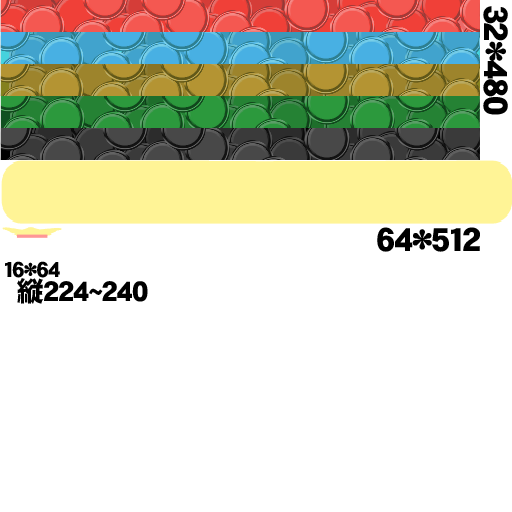
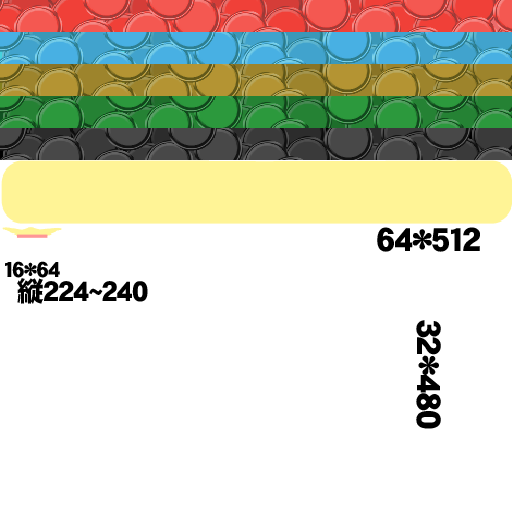
４人個別カメラ、４人個人画面、コインゲージの修正

Changed region(s): [[0.1562, 0.0, 1.0, 0.3125], [0.0, 0.0, 0.1562, 0.3125], [0.8125, 0.625, 0.875, 0.8438]]

diff --git a/source/Camera.cpp b/source/Camera.cpp
@@ -222,7 +222,6 @@
 	{
 		Slerp( target, 0.1f );
 
-		pos = target - Vector3( 0.0f, 10.0f, -10.0f );
 
 		Set( pos, this->target );
 	}
